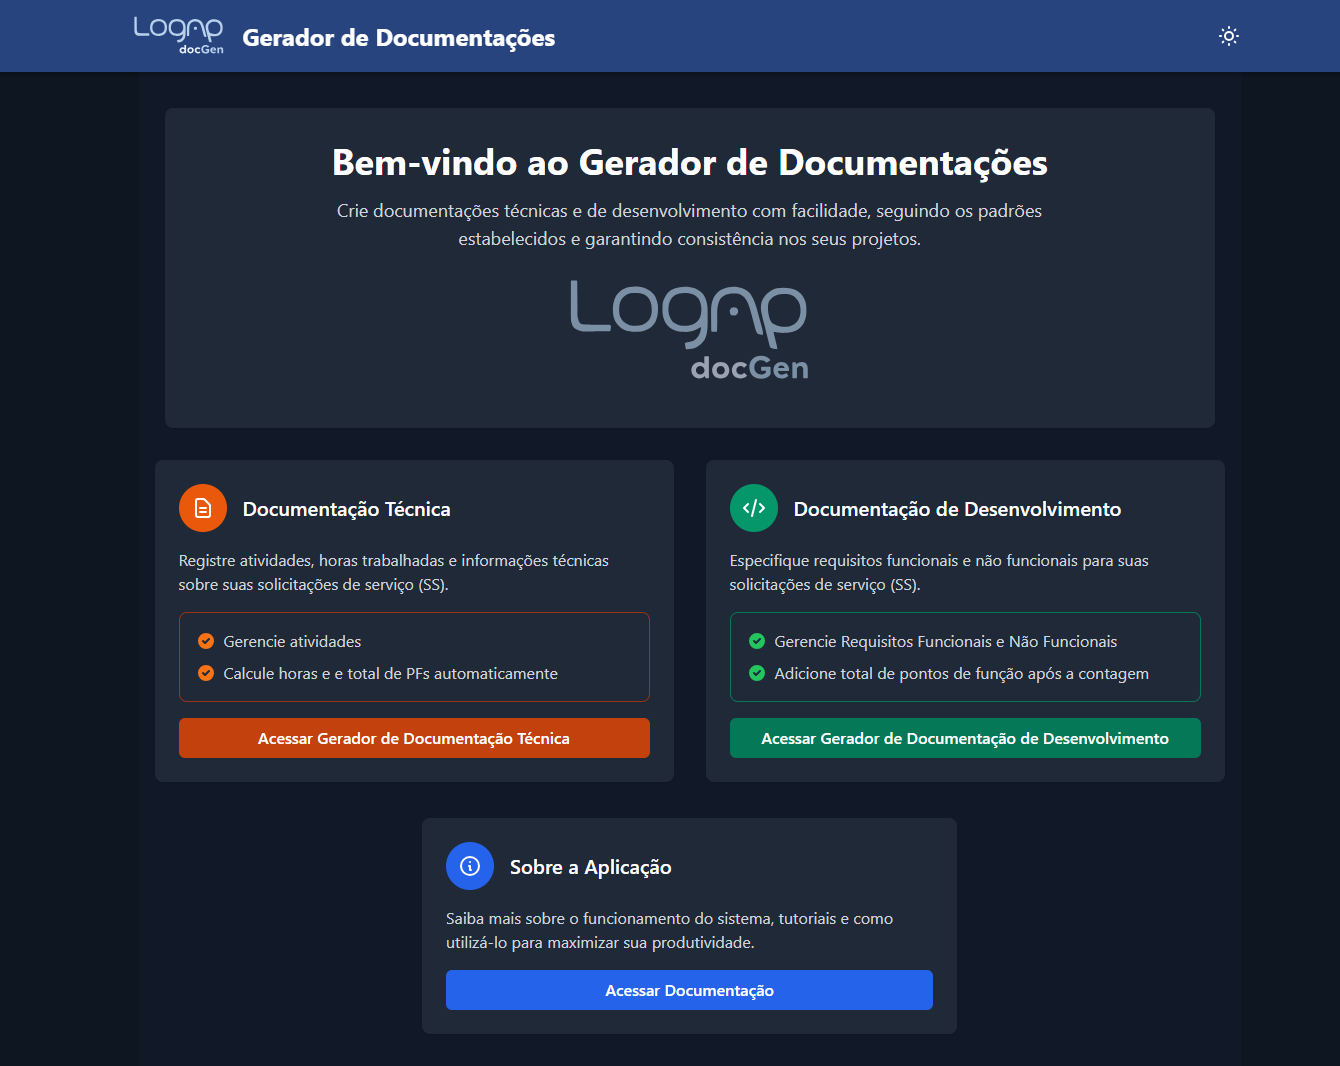
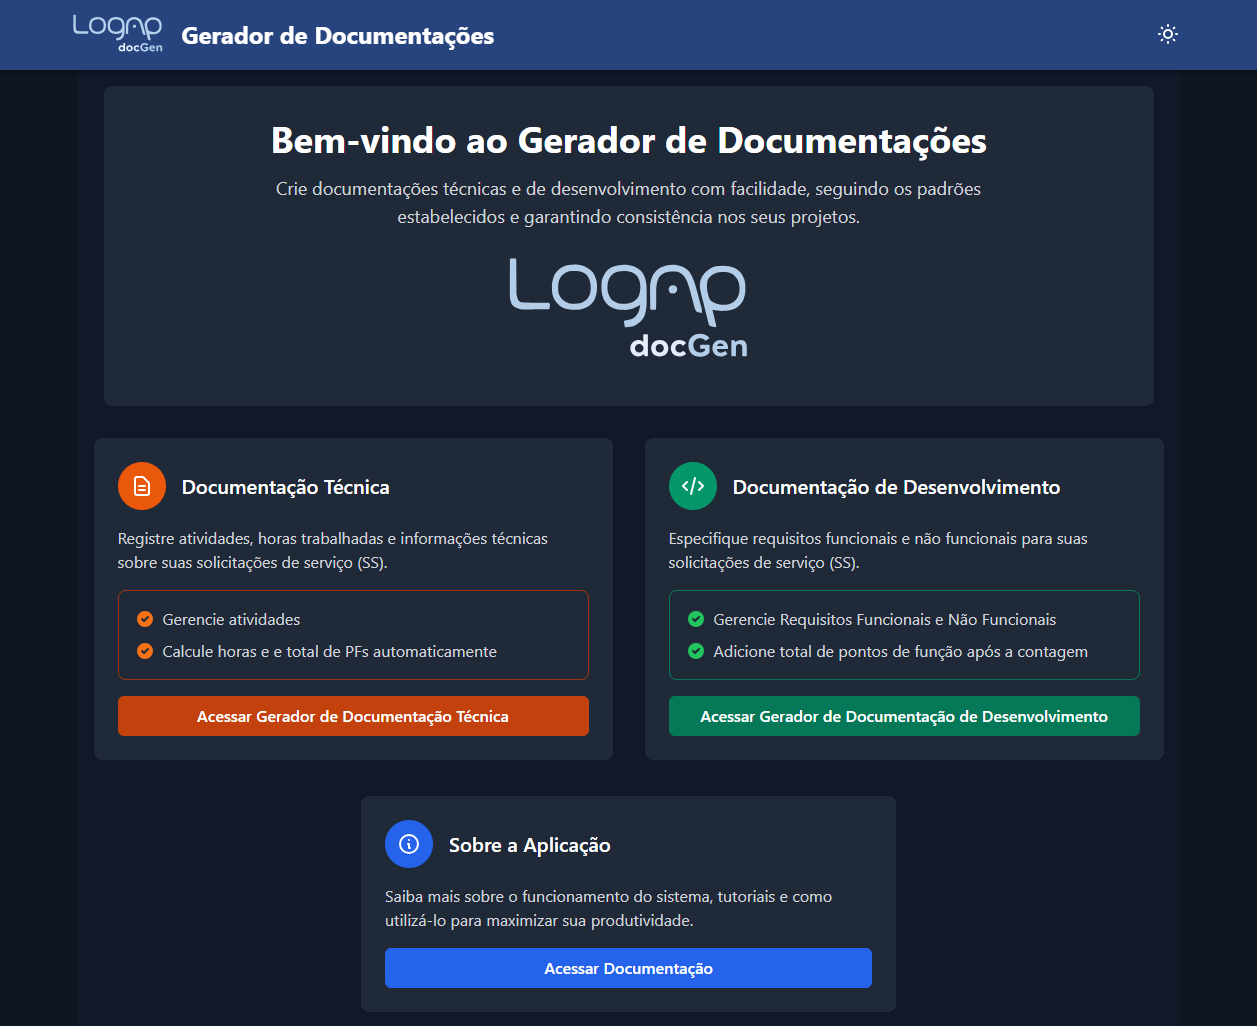
atualizei o screenshot da tela inicial

diff --git a/vite.config.js b/vite.config.js
@@ -11,8 +11,8 @@ export default defineConfig({
     },
   },
   build: {
-    outDir: "dist", // <-- saída do build para a pasta dist
-    emptyOutDir: true, // para apagar outros arquivos da pasta dist
+    outDir: "static", // <-- saída do build para a pasta static
+    emptyOutDir: false, // para não apagar outros arquivos da pasta static
     rollupOptions: {
       input: "./src/main.js", // ajuste se necessário
     },